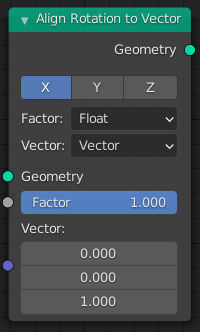
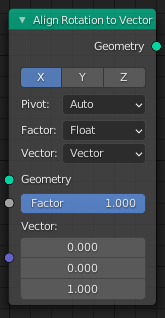
Geometry Nodes: update Align Rotation to Vector node
Ref T85211.

git-svn-id: https://svn.blender.org/svnroot/bf-manual/trunk/blender_docs@7725 c4de1f47-6596-e411-a384-0024e86c2797

diff --git a/manual/modeling/geometry_nodes/point/align_rotation_to_vector.rst b/manual/modeling/geometry_nodes/point/align_rotation_to_vector.rst
@@ -36,6 +36,16 @@ Properties
 Axis
    Local axis of the object that is to be rotated towards the vector input.
 
+Pivot
+   The local axis to rotate around.
+
+   Auto
+      The best rotation angle is computed automatically.
+      This minimizes the angle of rotation.
+
+   X, Y, Z
+      Rotate around a specific local axis.
+
 Factor
    Type of the *Factor* input socket.
 
